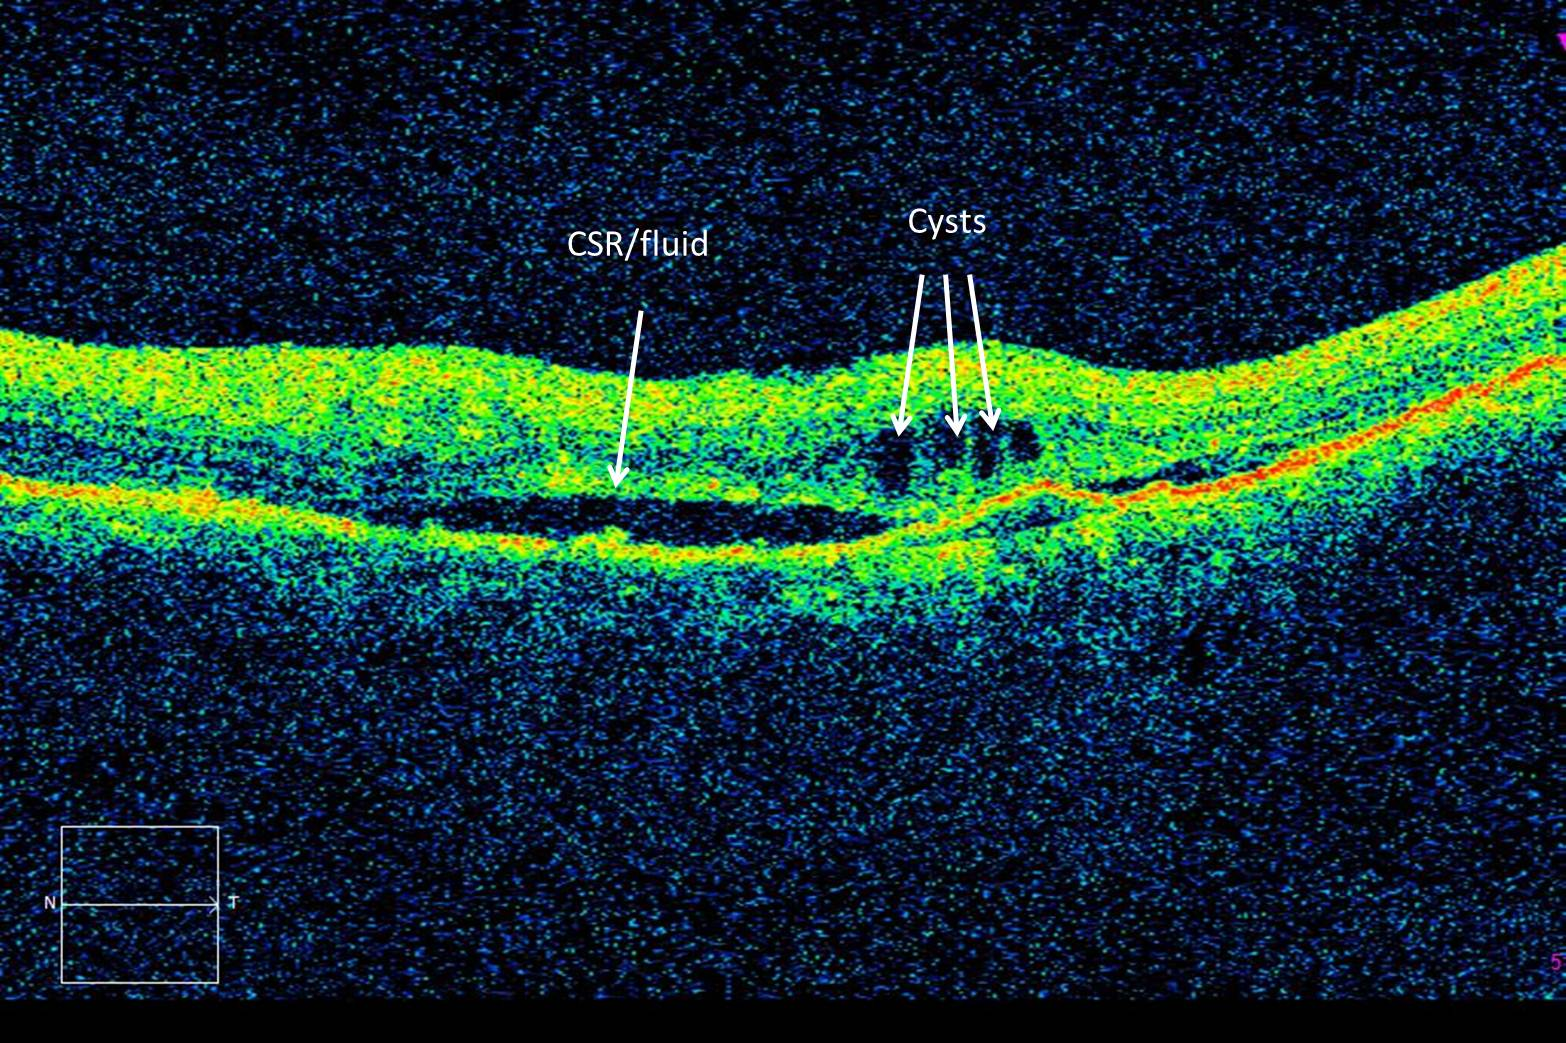
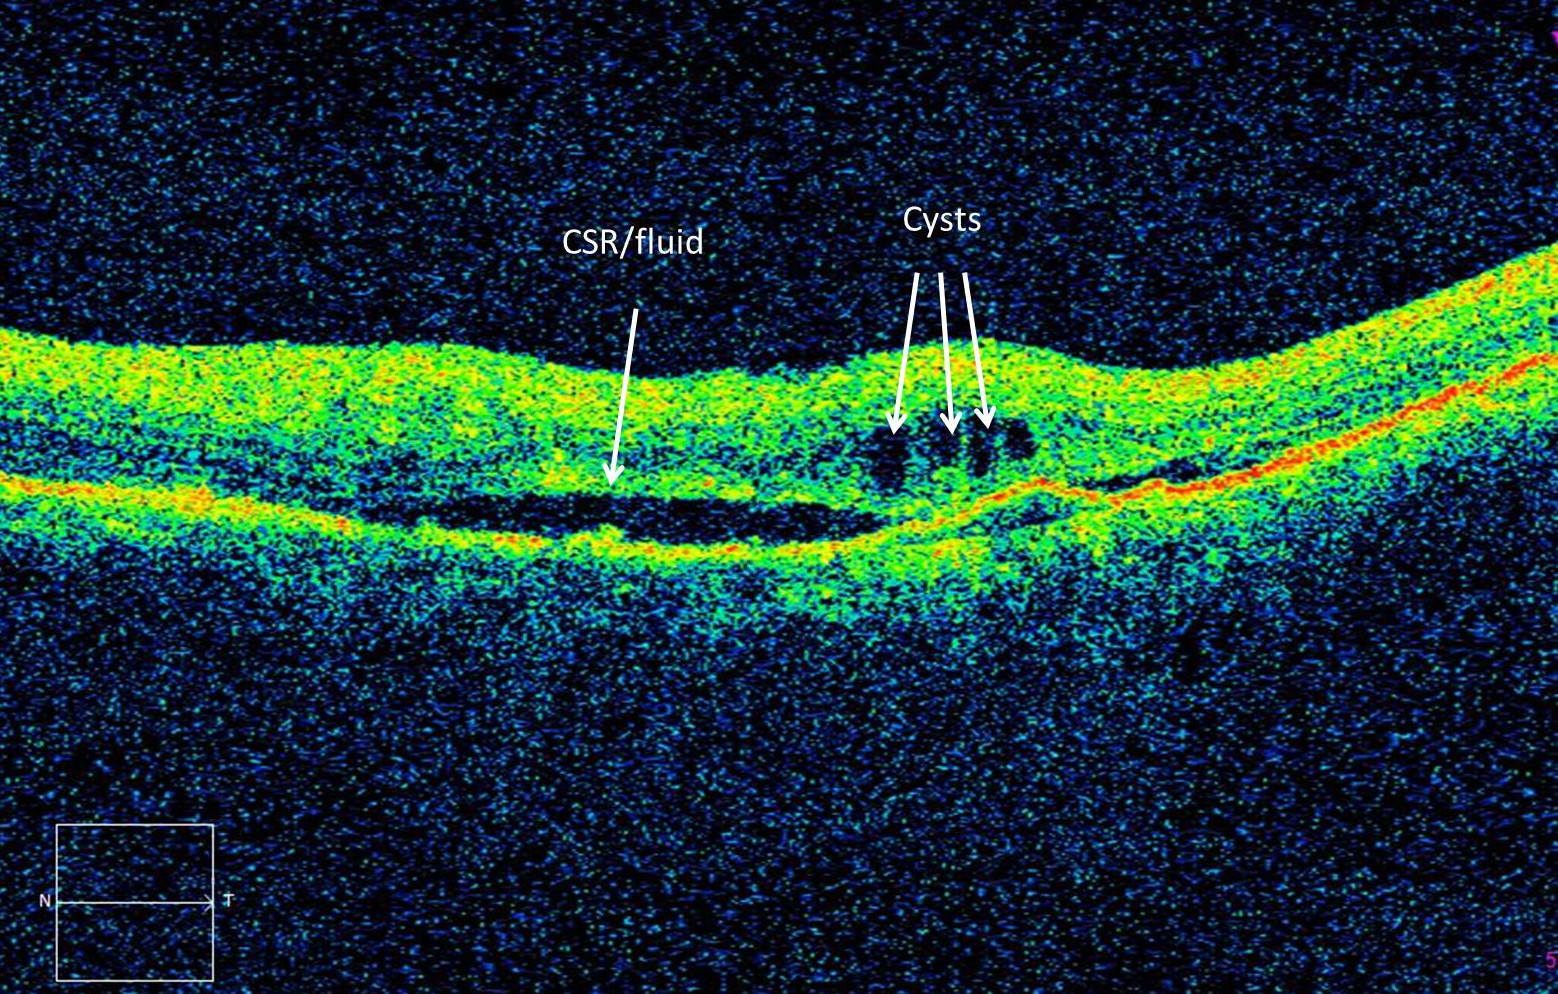
resizing the figures of dataset and forcing their sizes

diff --git a/content/method/dataset.tex b/content/method/dataset.tex
@@ -20,15 +20,15 @@ All \gls{sdoct} images have been read and assessed by trained graders and identi
 
 \begin{figure*}
 \begin{center}
-   \subfigure[Vitreomacular traction.]{\includegraphics[width=0.3\textwidth]{Vitreomacular}}\
-   \subfigure[Rethinal thickening.]{\includegraphics[width = 0.3\textwidth]{RE}} \
-   \subfigure[Cyst spaces, causing central and parafoveal retina thickening.]{\includegraphics[width=0.3\textwidth]{Cyst}}\\
-   \subfigure[Cyst spaces and hard exudates, causing central retinal thickening.]{\includegraphics[width = 0.3\textwidth]{Cyst+HE+RE}} \
-   \subfigure[CSR (subretinal fluid), causing central and parafoveal thickening.]{\includegraphics[width = 0.3\textwidth]{CSR}} \
-   \subfigure[CSR, hard exudates and cyst spaces.]{\includegraphics[width = 0.3\textwidth]{Cyst+CSR+HE}} \\
-   \subfigure[Cyst spaces, causing retinal thickening.]{\includegraphics[width = 0.3\textwidth]{Cyst+RE}} \
-   \subfigure[CSR and hard exudates, causing retinal thickening.]{\includegraphics[width = 0.3\textwidth]{CSR+HE+RE}} \   
-   \subfigure[Cyst spaces causing parafoveal thickening.]{\includegraphics[width = 0.3\textwidth]{Cyst+RE_parafovel}} \\
+   \subfigure[Vitreomacular traction.]{\includegraphics[width=0.3\textwidth, height = 0.15\textheight]{Vitreomacular}}\
+   \subfigure[Rethinal thickening.]{\includegraphics[width = 0.3\textwidth,height = 0.15\textheight]{RE}} \
+   \subfigure[Cyst spaces, causing central and parafoveal retina thickening.]{\includegraphics[width=0.3\textwidth,height = 0.15\textheight]{Cyst}}\\
+   \subfigure[Cyst spaces and hard exudates, causing central retinal thickening.]{\includegraphics[width = 0.3\textwidth,height = 0.15\textheight]{Cyst+HE+RE}} \
+   \subfigure[CSR (subretinal fluid), causing central and parafoveal thickening.]{\includegraphics[width = 0.3\textwidth,height = 0.15\textheight]{CSR}} \
+   \subfigure[CSR, hard exudates and cyst spaces.]{\includegraphics[width = 0.3\textwidth,height = 0.15\textheight]{Cyst+CSR+HE}} \\
+   \subfigure[Cyst spaces, causing retinal thickening.]{\includegraphics[width = 0.3\textwidth,height = 0.15\textheight]{Cyst+RE}} \
+   \subfigure[CSR and hard exudates, causing retinal thickening.]{\includegraphics[width = 0.3\textwidth,height = 0.15\textheight]{CSR+HE+RE}} \   
+   \subfigure[Cyst spaces causing parafoveal thickening.]{\includegraphics[width = 0.3\textwidth,height = 0.15\textheight]{Cyst+RE_parafovel}} \\
     
 \end{center}
     \caption{Examples of \gls{dme} cases in \gls{seri} dataset.}
